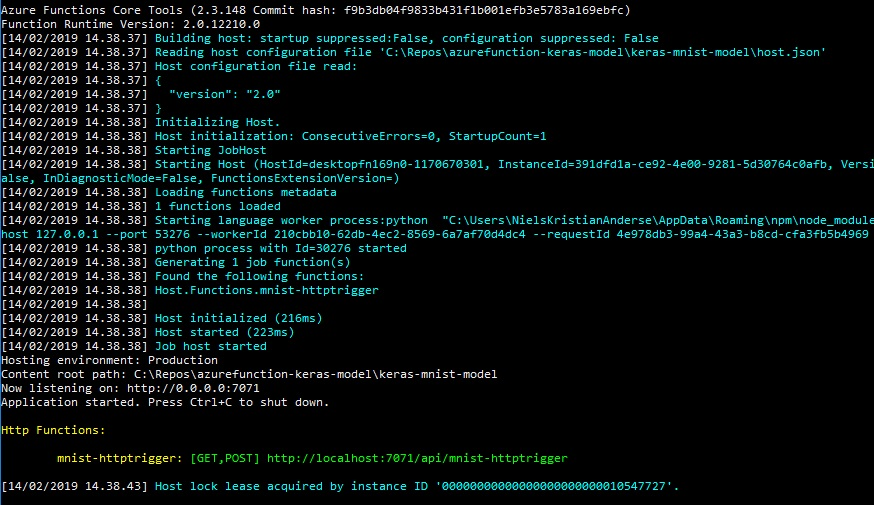
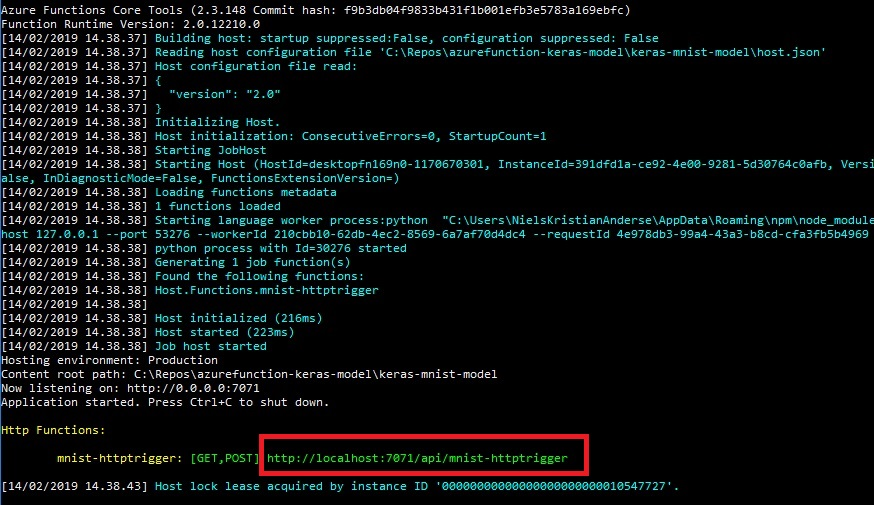
readme changes

diff --git a/README.md b/README.md
@@ -15,14 +15,27 @@ For this tutorial i've used python 3.6.6 (https://www.python.org/downloads/relea
 - Install the Azure CLI version 2.x or later.
 	- https://docs.microsoft.com/en-us/cli/azure/install-azure-cli?view=azure-cli-latest
 	
-	
-	
+In order to host the functions locally you need a virtual environment. If you have a fresh installation of python you can install the library virtualenv to create virtual environments(make sure 
+to add python as environment variable):
+```
 pip install virtualenv
-
+```
+Open a powershell or cmd window and navigate to the cloned repository:
+```
+cd <path to local repository>
+```
+Create a virtual environment for your project:
+```
 virtualenv venv --python=<path to python 3.6>
-
-pip install -r requirements.txt
-
+```
+Activate the virtual environment:
+```
+venv\scripts\activate
+```
+Now install the dependencies in order to host the functions locally:
+```
+pip install -r venv_requirements.txt
+```
 # Creating project resources
 
 initially we are creating a function project using the azure functions core tools
@@ -52,3 +65,5 @@ func host start
 ```
 It should look like following:
 ![host_start](https://github.com/nkma1989/azurefunctions-keras-model/blob/master/readme_images/host_start.jpg)
+
+The localhost endpoint of your function will be shown in the console as can be seen in the red box.
